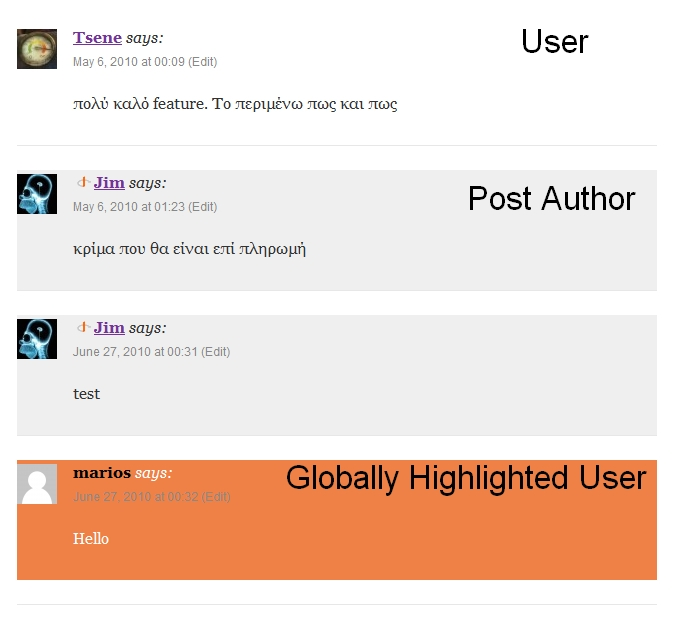
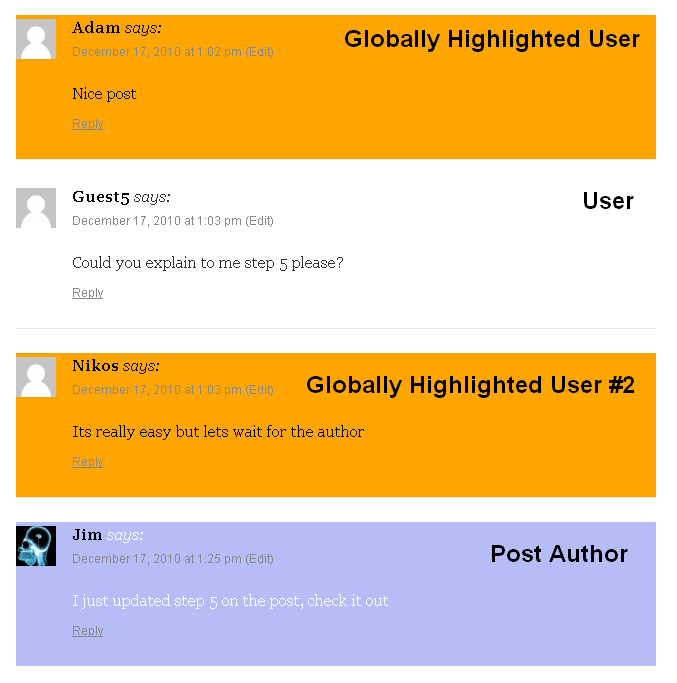
new version 0.6
git-svn-id: https://plugins.svn.wordpress.org/simple-author-highlighter/trunk@323892 b8457f37-d9ea-0310-8a92-e5e31aec5664

diff --git a/sah.php b/sah.php
@@ -3,7 +3,7 @@
 Plugin Name: Simple Author Highlighter
 Plugin URI: http://www.dakulov.eu#page5
 Description: Easy highlight authors comments
-Version: 0.5
+Version: 0.6
 Author: Akulov Dmitriy
 Author URI: http://www.dakulov.eu
 */
@@ -24,10 +24,14 @@ function sah_create_menu() {
 add_action ('wp_head', 'sah_addHeaderCode') ;
 
 function sah_addHeaderCode() {
+		$sah_users = get_option('user');
+		$sah_userArray = explode(",", $sah_users);
 		echo "\n".'<!-- Start Simple Author Highlighter -->'."\n";
 		echo '<style type="text/css">' . "\n";
 		echo '.bypostauthor {background-color: ' . get_option('color_code') . ' !important; color: ' . get_option('color_code2') . ' ;}' . "\n";
-		echo '.comment-author-' . get_option('user') . ' {background-color: ' . get_option('user_color_code') . ' !important; color: ' . get_option('user_color_code2') . ' ;}' . "\n";
+		for($i = 0; $i < count($sah_userArray); $i++){
+	echo '.comment-author-' . $sah_userArray[$i] . ' {background-color: ' . get_option('user_color_code') . ' !important; color: ' . get_option('user_color_code2') . ' ;}' . "\n";
+}
 		echo '</style>'."\n";
 		echo '<!-- Stop Simple Author Highlighter -->'."\n";
 }
@@ -48,7 +52,7 @@ function sah_deinstall() {
 }
 
 function sah_register_mysettings() {
-	//register our settings
+	//register  settings
 	register_setting( 'sah-settings-group', 'color_code' );
 	register_setting( 'sah-settings-group', 'color_code2' );
 	register_setting( 'sah-settings-group', 'user_color_code' );
@@ -73,11 +77,11 @@ function sah_settings_page() {
 		<td><input type="text" name="color_code2" value="<?php echo get_option('color_code2'); ?>" /> <i>For example: #ffffff Leave blank for theme's default</i></td>
 		</tr>
 	</table>
-	<h2>Global highlight a user</h2>
+	<h2>Global highlight users</h2>
 	 <table class="form-table">
     <tr valign="top">
-        <th scope="row">Enter the user's login name</th>
-        <td><input type="text" name="user" value="<?php echo get_option('user'); ?>" /> <i>For example: admin</i><br/></td>
+        <th scope="row">Enter the users login names</th>
+        <td><input type="text" name="user" value="<?php echo get_option('user'); ?>" /> <i>For example: admin For multiple users use comma as a delimiter</i><br/></td>
         </tr>
 		<tr valign="top">
         <th scope="row">Enter the highlight color</th>
